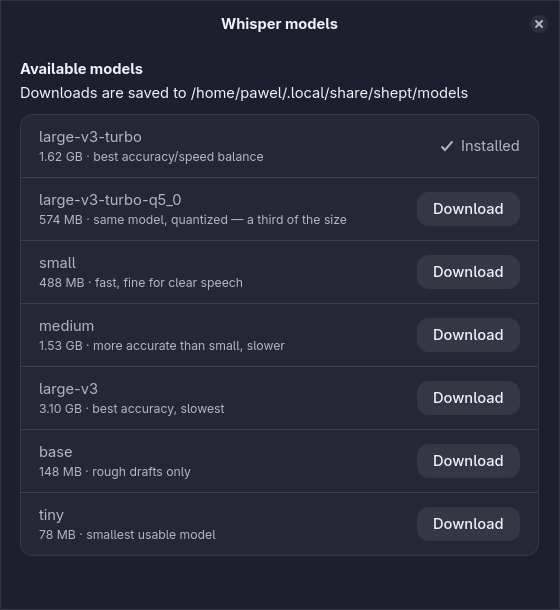
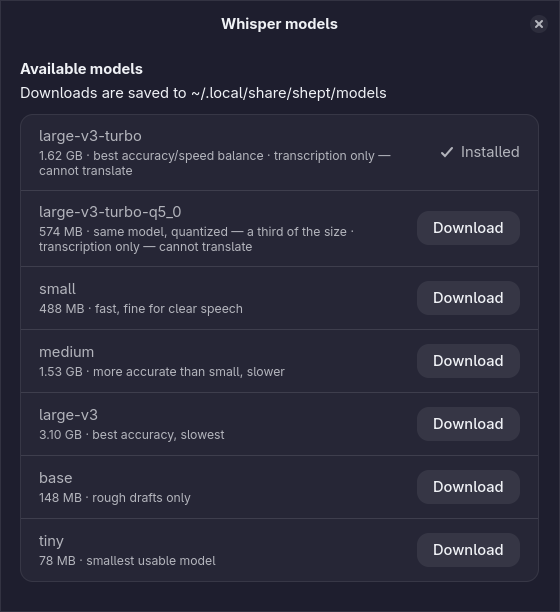
fix: align the layout and clarify window identity
One Adw.Clamp now holds the controls, the transcript and the status line, so
they share the same width instead of the controls being centred while the
transcript runs edge to edge. GLib.set_prgname(APP_ID) gives secondary
windows the application identity instead of "python3", and the models
dialog prints the download directory with ~ via a new GTK-free
environment.abbreviate_home() helper (covered by tests). Screenshots
re-taken: the queue shows two different transcripts plus one pending file
with an active Transcribe button.

diff --git a/shept/app.py b/shept/app.py
@@ -29,6 +29,7 @@ from shept.environment import (  # noqa: E402
     LANGUAGES,
     MODELS_URL,
     REQUIRED_TOOLS,
+    abbreviate_home,
     best_translation_model,
     default_language,
     detect_backend,
@@ -165,11 +166,17 @@ class SheptWindow(Adw.ApplicationWindow):
             banner.set_revealed(True)
             outer.append(banner)
 
+        # Everything below the banner shares one clamp, so the controls, the
+        # transcript and the status line have the same width and the same
+        # horizontal alignment instead of being centred in different widths.
         clamp = Adw.Clamp(maximum_size=720)
         outer.append(clamp)
 
+        content = Gtk.Box(orientation=Gtk.Orientation.VERTICAL, spacing=12)
+        clamp.set_child(content)
+
         controls = Gtk.Box(orientation=Gtk.Orientation.VERTICAL, spacing=8)
-        clamp.set_child(controls)
+        content.append(controls)
 
         queue_header = Gtk.Box(orientation=Gtk.Orientation.HORIZONTAL, spacing=6)
         queue_title = Gtk.Label(label="Queue", xalign=0)
@@ -298,7 +305,7 @@ class SheptWindow(Adw.ApplicationWindow):
 
         scroller = Gtk.ScrolledWindow(vexpand=True)
         scroller.set_min_content_height(280)
-        outer.append(scroller)
+        content.append(scroller)
 
         self.buffer = Gtk.TextBuffer()
         self.text_view = Gtk.TextView(buffer=self.buffer)
@@ -320,7 +327,7 @@ class SheptWindow(Adw.ApplicationWindow):
         else:
             status_text = f"whisper.cpp backend: {backend}"
         self.status.set_text(status_text)
-        outer.append(self.status)
+        content.append(self.status)
 
         self._reload_models()
 
@@ -1083,7 +1090,7 @@ class ModelDownloadDialog(Adw.Window):
 
         self._group = Adw.PreferencesGroup(
             title="Available models",
-            description=f"Downloads are saved to {self._dest}",
+            description=f"Downloads are saved to {abbreviate_home(self._dest)}",
         )
         clamp.set_child(self._group)
 
@@ -1309,5 +1316,8 @@ def main() -> int:
     # Missing tools and models are reported in the window instead of aborting
     # here: a desktop-menu launch has nowhere to show a stderr message.
     GLib.set_application_name("Shept")
+    # Without a program name secondary windows are filed under "python3" by
+    # the compositor and the taskbar.
+    GLib.set_prgname(APP_ID)
     signal.signal(signal.SIGINT, signal.SIG_DFL)
     return SheptApp().run(sys.argv)

diff --git a/shept/environment.py b/shept/environment.py
@@ -192,6 +192,25 @@ def best_translation_model(installed: Iterable[Path]) -> Path | None:
     return None
 
 
+def abbreviate_home(path: Path) -> str:
+    """Return `path` with the home directory written as `~`.
+
+    Paths outside the home directory are returned unchanged, so the result is
+    always a usable absolute path and never leaks what the home directory
+    happens to be called.
+    """
+    path = Path(path)
+    try:
+        home = Path.home()
+        relative = path.relative_to(home)
+    except (RuntimeError, ValueError):
+        # No home directory at all, or a path outside it.
+        return str(path)
+    if relative == Path("."):
+        return "~"
+    return f"~/{relative}"
+
+
 def detect_distro(path: Path = Path("/etc/os-release")) -> str:
     """Classify the distribution as "fedora", "debian", "arch" or "other"."""
     try:

diff --git a/tests/test_environment.py b/tests/test_environment.py
@@ -238,6 +238,29 @@ def test_best_translation_model_falls_back_to_uncatalogued_models(tmp_path):
     )
 
 
+# ---------------------------------------------------------- path abbreviation
+
+
+def test_abbreviate_home_inside_home(fake_home):
+    path = fake_home / ".local" / "share" / "shept" / "models"
+
+    assert environment.abbreviate_home(path) == "~/.local/share/shept/models"
+
+
+def test_abbreviate_home_is_exactly_home(fake_home):
+    assert environment.abbreviate_home(fake_home) == "~"
+
+
+def test_abbreviate_home_outside_home(fake_home):
+    outside = Path("/opt/models")
+
+    assert environment.abbreviate_home(outside) == "/opt/models"
+
+
+def test_abbreviate_home_root(fake_home):
+    assert environment.abbreviate_home(Path("/")) == "/"
+
+
 # ------------------------------------------------------------ model discovery
 
 
